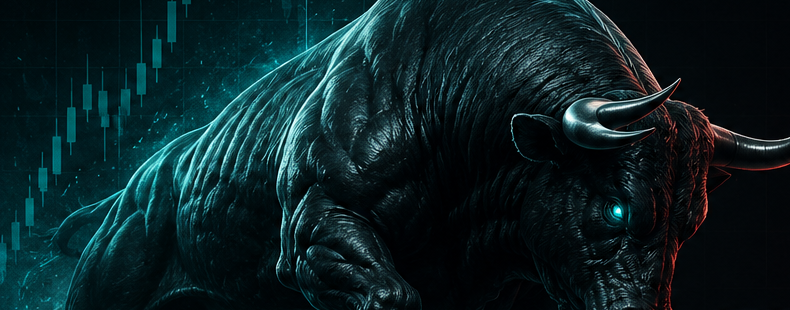
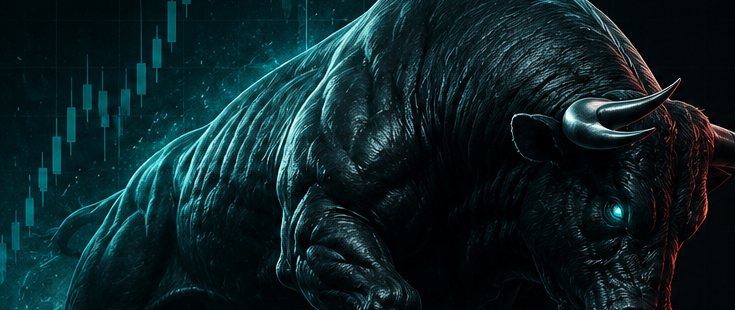
perf(dashboard): stream swing signals + long-cache daily analysis
The daily (1d) swing scan ran cold on every dashboard load and blocked
the whole page. Two fixes:
- Cache higher-timeframe analysis (4h/1d) for 10 min instead of 35s, so
  the swing scan is a cache hit almost always.
- Move the swing scan into its own Suspense boundary (SwingSignalsSection)
  so it streams in and never blocks the dashboard shell.

Also refine the bull mascot: re-crop without the red edge and switch
bull/bear to object-fit cover so they fill the card like the face-off
(no more "narrowed" letterboxed look).

diff --git a/apps/web/app/page.tsx b/apps/web/app/page.tsx
@@ -10,8 +10,9 @@ import MarketHeatmap from "../components/dashboard/MarketHeatmap";
 import MarketStats from "../components/dashboard/MarketStats";
 import OpportunityCard from "../components/dashboard/OpportunityCard";
 import RecentSignalChanges from "../components/dashboard/RecentSignalChanges";
+import { Suspense } from "react";
 import ScannerSection from "../components/dashboard/ScannerSection";
-import SwingSignals from "../components/dashboard/SwingSignals";
+import SwingSignalsSection from "../components/dashboard/SwingSignalsSection";
 import WatchlistAlerts from "../components/dashboard/WatchlistAlerts";
 import WatchlistSignalBoard from "../components/dashboard/WatchlistSignalBoard";
 import LandingPage from "../components/landing/LandingPage";
@@ -74,19 +75,13 @@ export default async function HomePage() {
   const { id: userId, email } = user;
   const isPro = hasActiveSubscription(user);
 
-  const [
-    dashboard,
-    watchlists,
-    watchlistAlerts,
-    watchlistBoard,
-    swingScanner,
-  ] = await Promise.all([
-    getDashboardData(),
-    isPro ? getWatchlists(userId) : Promise.resolve([]),
-    isPro ? getWatchlistAlerts(userId) : Promise.resolve([]),
-    isPro ? getWatchlistSignalBoard(userId) : Promise.resolve([]),
-    isPro ? getAtlasScanner("1d") : Promise.resolve([]),
-  ]);
+  const [dashboard, watchlists, watchlistAlerts, watchlistBoard] =
+    await Promise.all([
+      getDashboardData(),
+      isPro ? getWatchlists(userId) : Promise.resolve([]),
+      isPro ? getWatchlistAlerts(userId) : Promise.resolve([]),
+      isPro ? getWatchlistSignalBoard(userId) : Promise.resolve([]),
+    ]);
 
   const opportunity = [...dashboard.scanner].sort(
     (first, second) => second.score - first.score
@@ -148,7 +143,19 @@ export default async function HomePage() {
 
       {isPro && (
         <div className="mb-8">
-          <SwingSignals items={swingScanner} />
+          <Suspense
+            fallback={
+              <div className="atlas-card rounded-2xl p-8">
+                <div className="h-6 w-56 animate-pulse rounded bg-zinc-800" />
+                <div className="mt-5 grid gap-3 md:grid-cols-2">
+                  <div className="h-28 animate-pulse rounded-xl bg-zinc-900" />
+                  <div className="h-28 animate-pulse rounded-xl bg-zinc-900" />
+                </div>
+              </div>
+            }
+          >
+            <SwingSignalsSection />
+          </Suspense>
         </div>
       )}
 

diff --git a/apps/web/lib/atlas/atlasAnalysisCache.ts b/apps/web/lib/atlas/atlasAnalysisCache.ts
@@ -14,6 +14,17 @@ import { notifySignalChange } from "@/lib/telegram/notify";
 // 20 symbols x 3 timeframes) instead of reusing the cached result.
 const CACHE_TTL_MS = 35_000;
 
+// Higher timeframes barely move intraday, so cache them far longer — this
+// keeps the daily swing scanner (20 symbols x 1d) from cold-recomputing on
+// every dashboard load, which was the main source of dashboard slowness.
+const LONG_CACHE_TTL_MS = 10 * 60_000;
+
+function ttlForInterval(interval: BinanceInterval): number {
+  return interval === "4h" || interval === "1d"
+    ? LONG_CACHE_TTL_MS
+    : CACHE_TTL_MS;
+}
+
 type CacheEntry = {
   expiresAt: number;
   promise: Promise<AtlasAnalysisResponse>;
@@ -42,7 +53,7 @@ export function getCachedAtlasAnalysis(
   const promise = getAtlasAnalysis(symbol, interval);
 
   cache.set(key, {
-    expiresAt: Date.now() + CACHE_TTL_MS,
+    expiresAt: Date.now() + ttlForInterval(interval),
     promise,
   });
 

diff --git a/apps/web/components/dashboard/SwingSignalsSection.tsx b/apps/web/components/dashboard/SwingSignalsSection.tsx
@@ -1,0 +1,10 @@
+import SwingSignals from "@/components/dashboard/SwingSignals";
+import { getAtlasScanner } from "@/lib/analysis/scanner";
+
+// Async wrapper so the daily (1d) swing scan runs inside its own Suspense
+// boundary and streams in — it never blocks the main dashboard shell.
+export default async function SwingSignalsSection() {
+  const items = await getAtlasScanner("1d");
+
+  return <SwingSignals items={items} />;
+}

diff --git a/apps/web/components/dashboard/MarketBiasMascot.tsx b/apps/web/components/dashboard/MarketBiasMascot.tsx
@@ -14,12 +14,12 @@ const CONFIG: Record<
 > = {
   BULLISH: {
     src: "/mascots/bull.png",
-    fit: "contain",
+    fit: "cover",
     alt: "Oksemarked (bullish)",
   },
   BEARISH: {
     src: "/mascots/bear.png",
-    fit: "contain",
+    fit: "cover",
     alt: "Bjørnemarked (bearish)",
   },
   NEUTRAL: {
